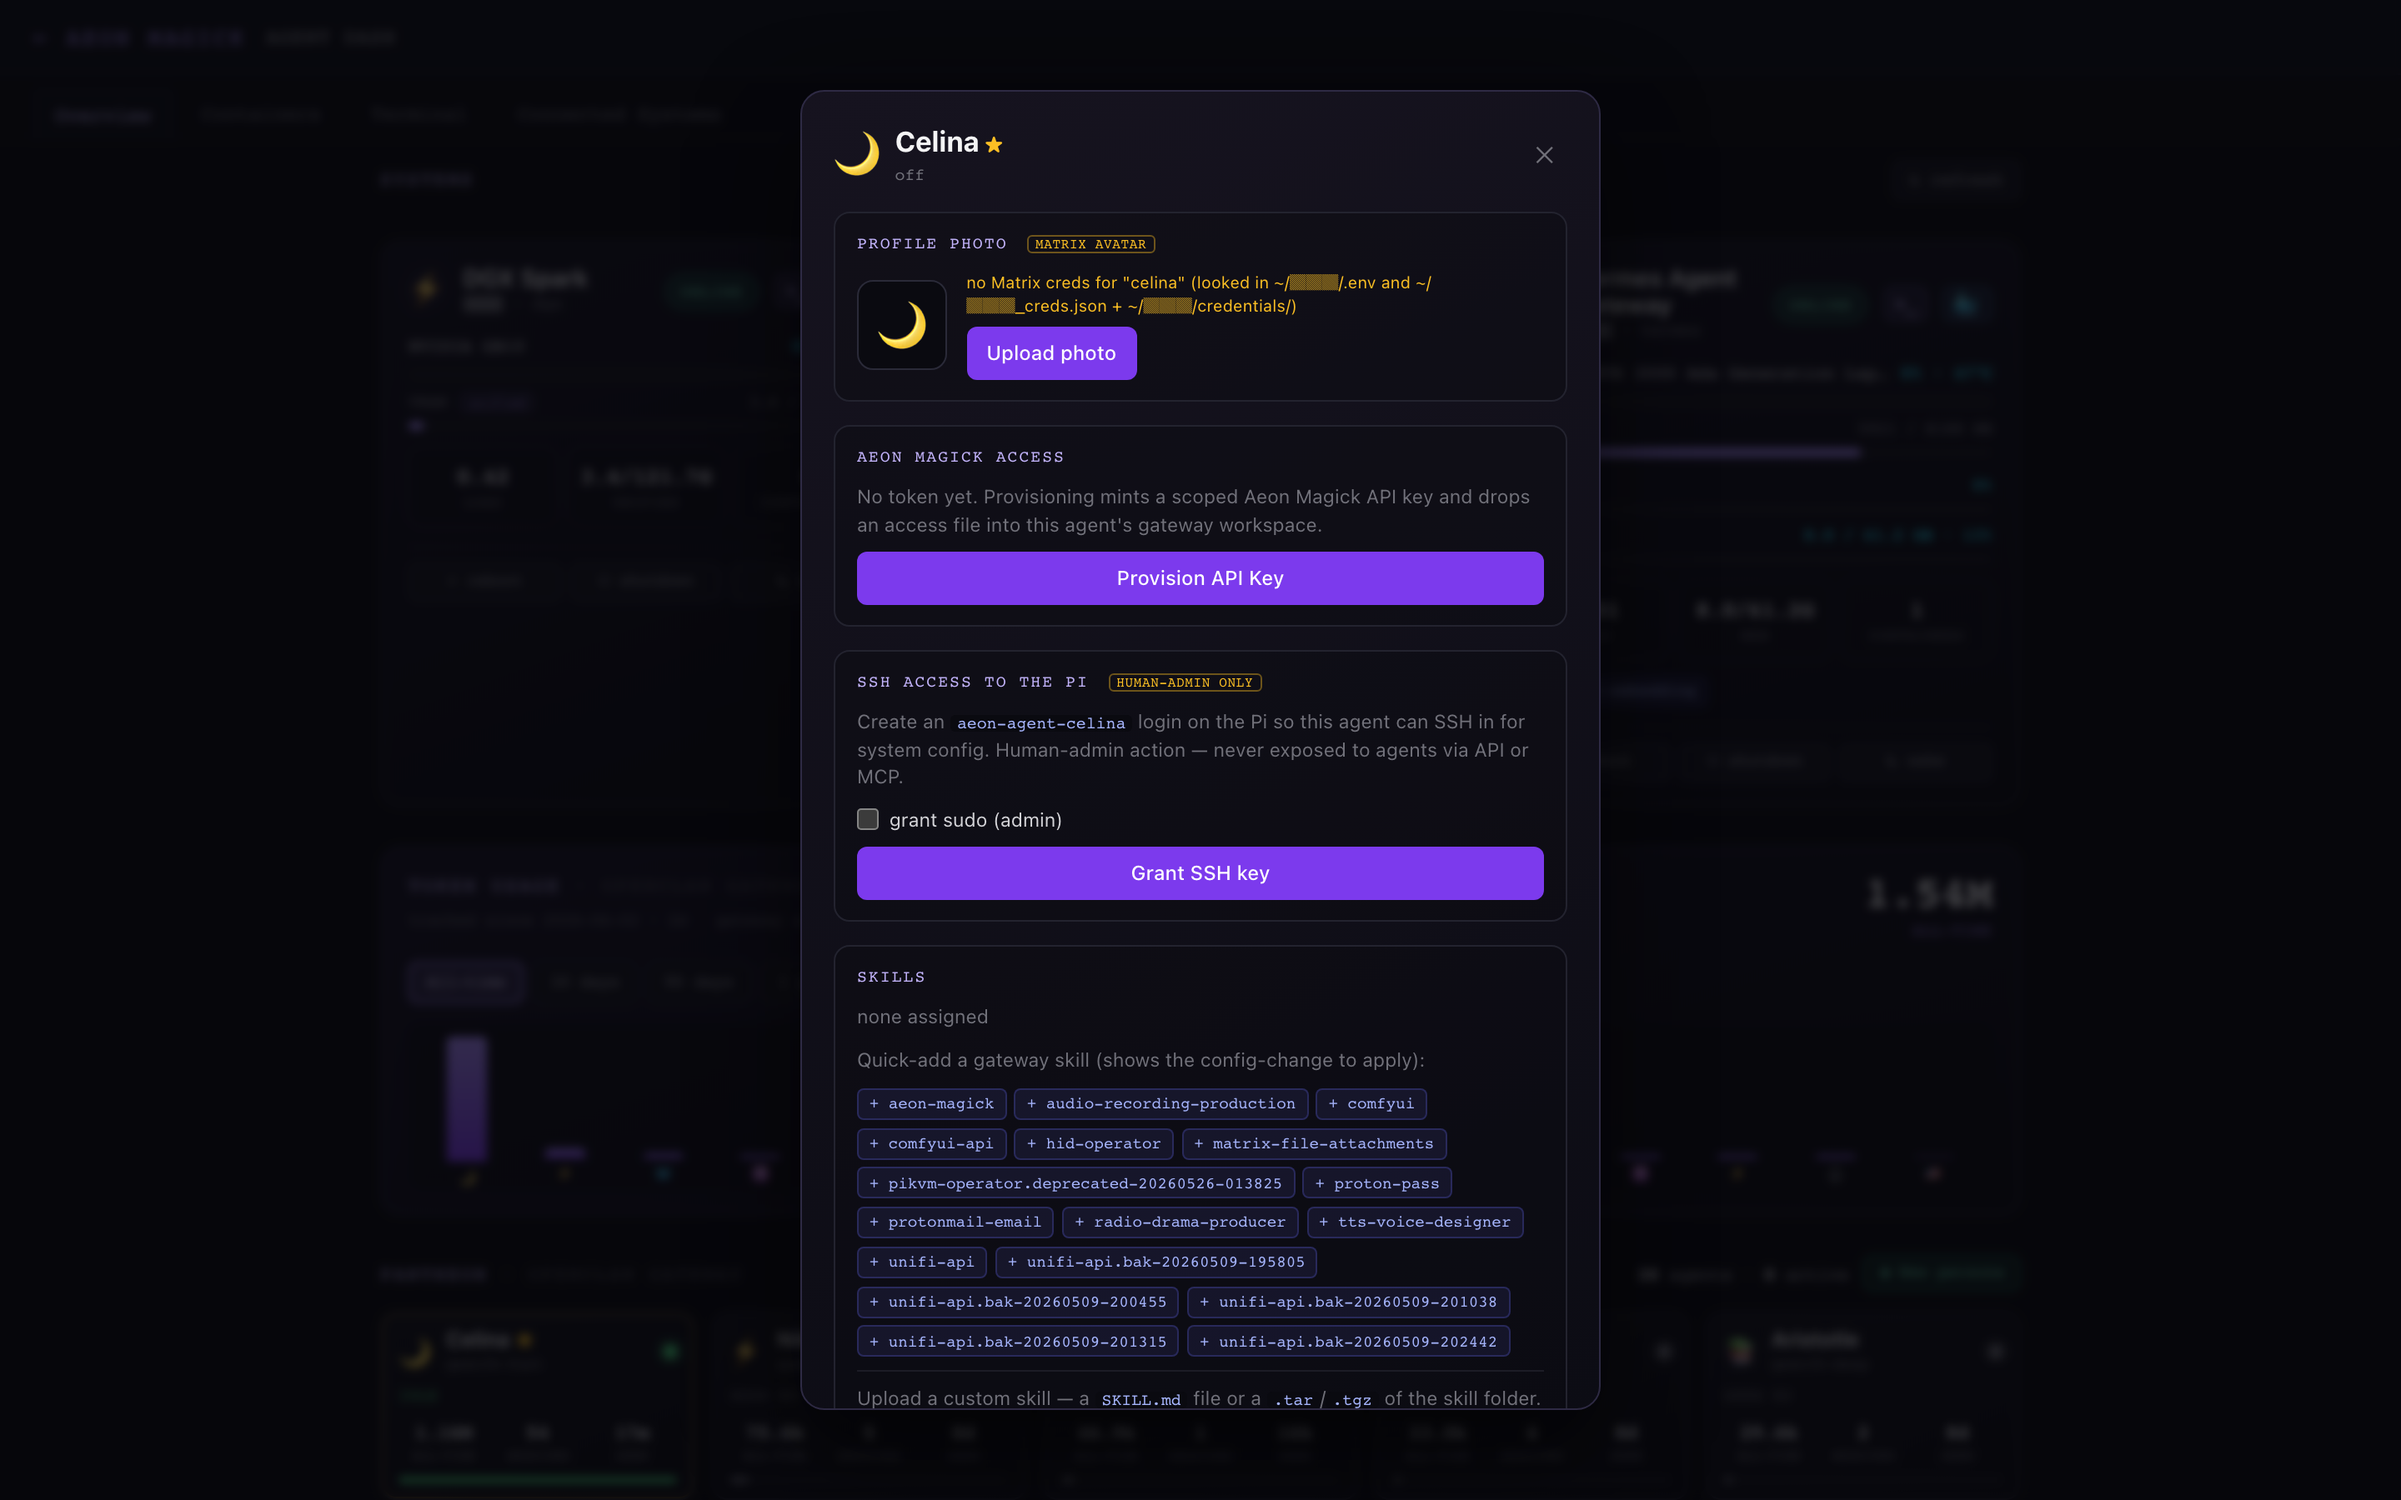
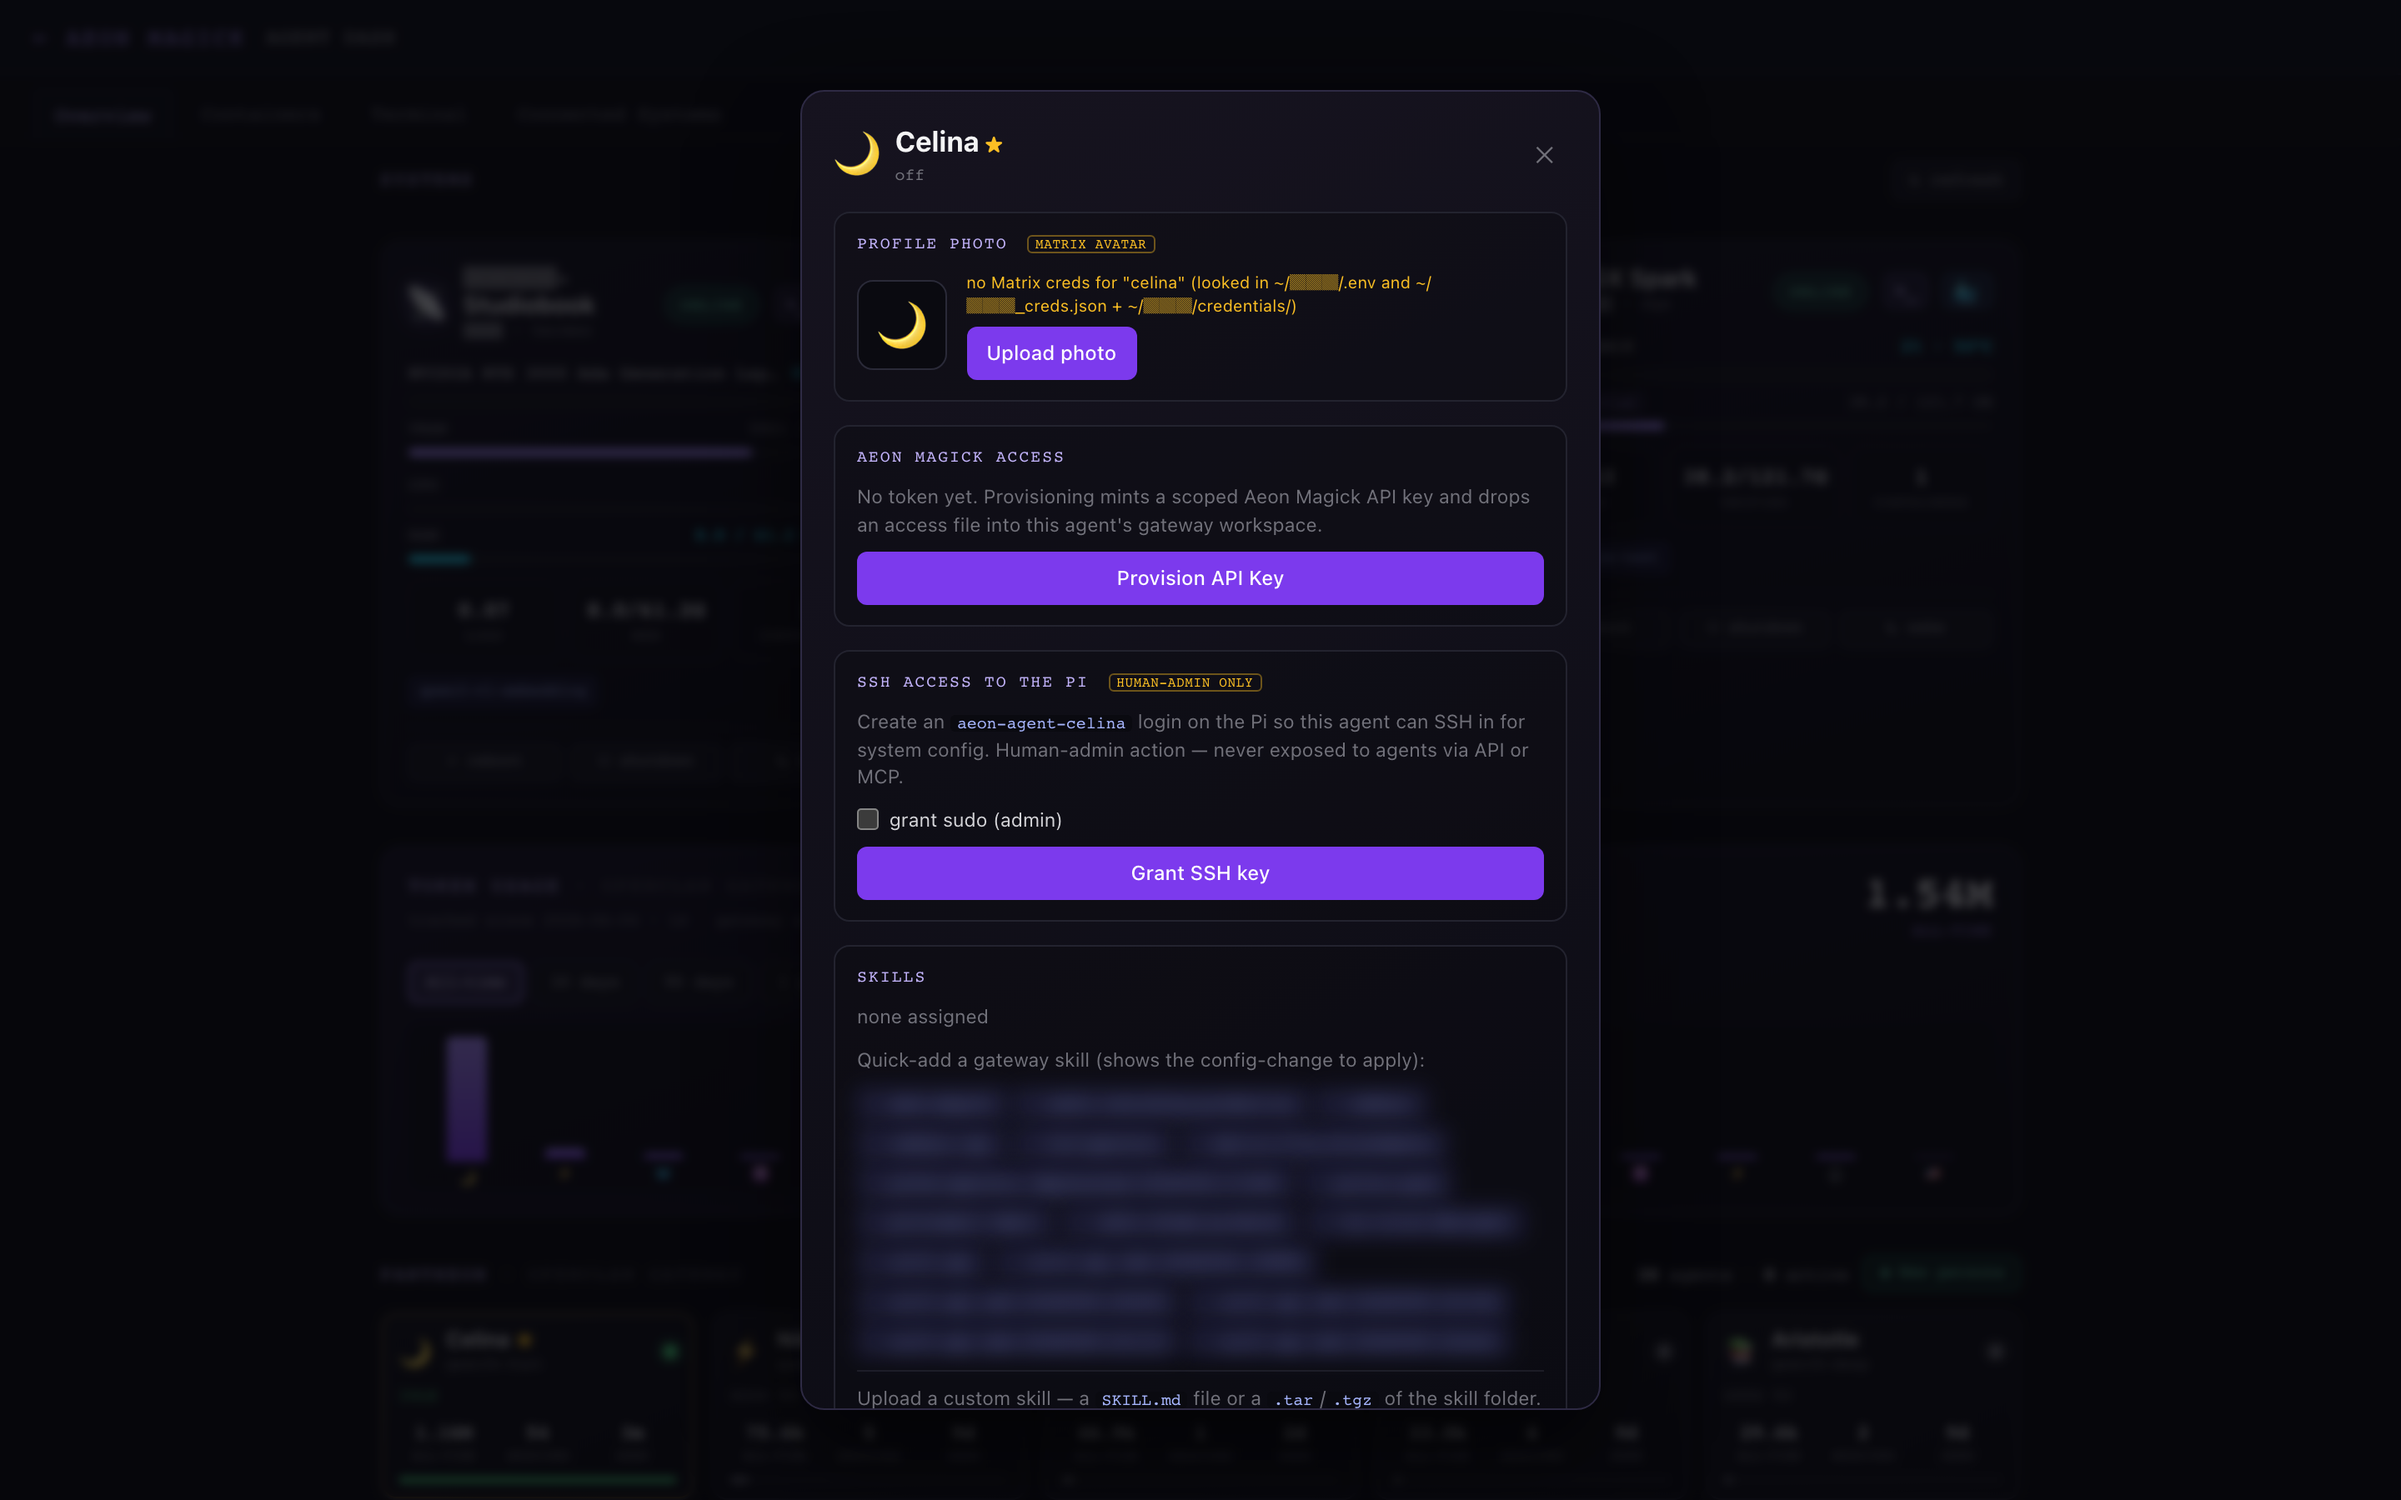
docs: refresh Pantheon screenshots from live device + add voice/corpus capture
Re-captured agent-overview (current 30-persona roster) and agent-detail from the
live gateway via the proven capture-screenshots redaction pass, and added
persona-build.png showing the new Voice management (designer/clone) + Corpus
controls. Redaction hardened to scrub absolute /home/<user> paths (the tilde-only
rule had leaked one), plus a precautionary blur of the Skills chips (personal
tool names). Verified each image for IP/hostname/homeserver/username leaks.

diff --git a/README.md b/README.md
@@ -134,7 +134,7 @@ persona** away. Open any persona to build it out end-to-end: profile photo →
 Matrix avatar, a **custom voice**, a **corpus**, and its **Soul** (`SOUL.md` — the
 system prompt) and **Identity** (`IDENTITY.md` — name, era, domain, emoji).
 
-![Per-agent detail — provisioning, SSH, avatar, corpus, Soul/Identity, add-skill](docs/images/agent-detail.png)
+![Building a persona — Matrix avatar, a scoped Aeon Magick API key, a human-only SSH grant, and skills](docs/images/agent-detail.png)
 
 ### Auto skill-deploy on provisioning
 
@@ -159,6 +159,8 @@ Give each persona its own voice, two ways:
 
 Both write straight to the persona's voice config on the gateway — no SSH, no
 file-shuffling, no terminal.
+
+![A persona's Voice management + Corpus — a designer descriptor or a cloned `.wav`, and a browsable knowledge vault](docs/images/persona-build.png)
 
 ### Build + browse the corpus
 
